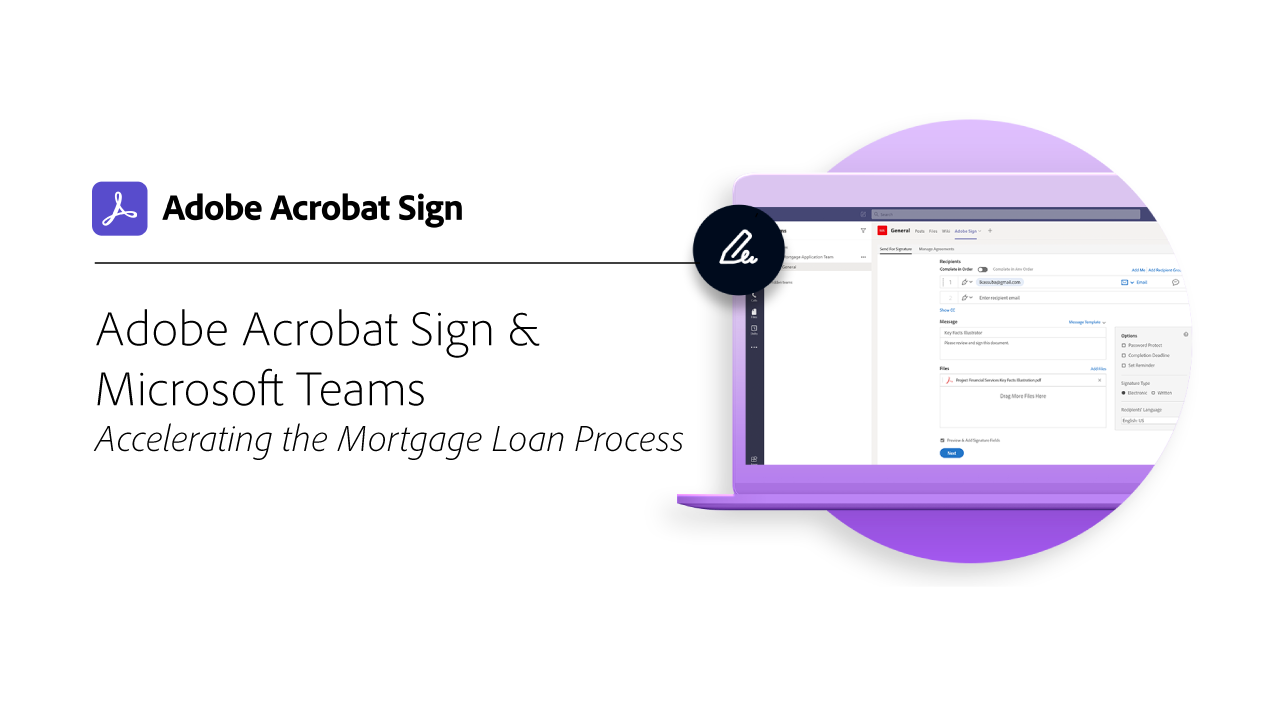
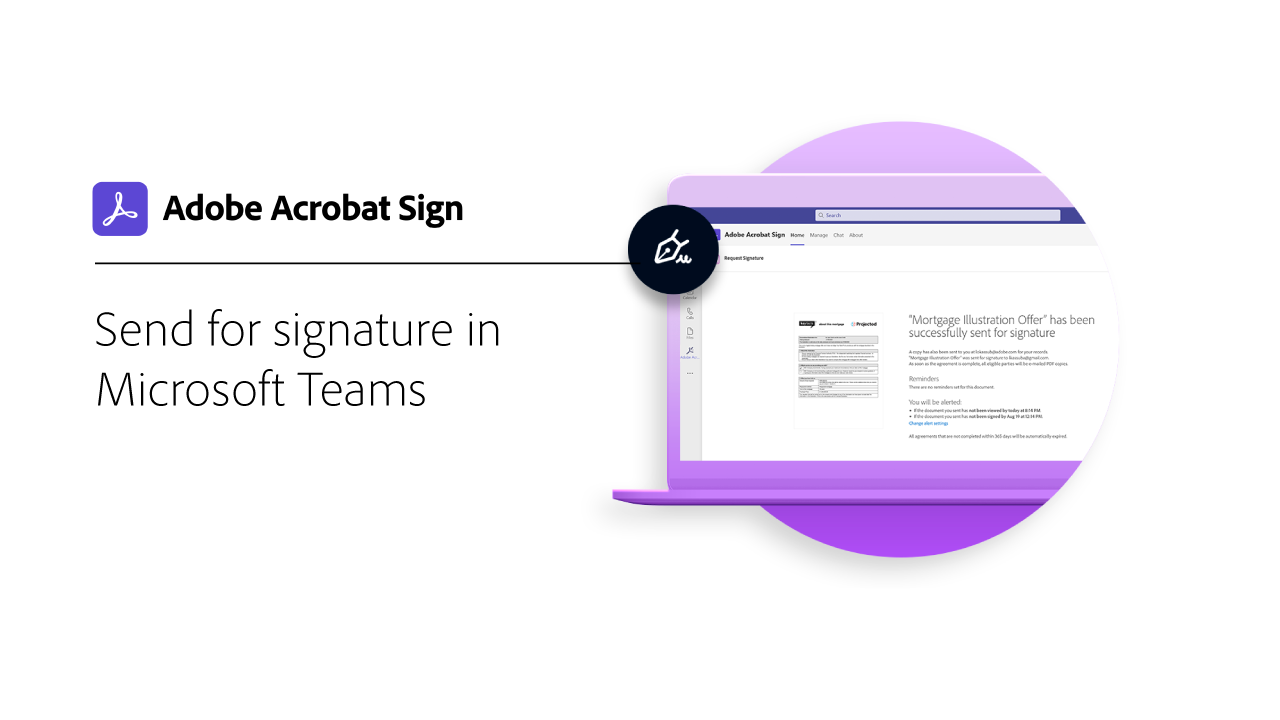
Acrobat Sign Teams tutorial update

diff --git a/help/sign/integrations/adobe-sign-teams-mortgage.md b/help/sign/integrations/adobe-sign-teams-mortgage.md
@@ -1,6 +1,6 @@
 ---
-title: Sending documents for signature in [!DNL Microsoft Teams]
-description: The Acrobat Sign & [!DNL Microsoft Teams] integration enables you to send agreements for signature or check the status of existing agreements, all from within [!DNL Microsoft Teams]
+title: Send for signature in [!DNL Microsoft Teams]
+description: earn how to send agreements for signature, check the status of agreements, and send reminders all from within [!DNL Microsoft Teams]
 role: User
 product: adobe sign
 solution: Acrobat Sign
@@ -9,11 +9,12 @@ topic-revisit: Integrations
 thumbnail: 40125.jpg
 exl-id: dc6b8cc8-6d9d-46a0-add2-dc5ada06fbaf
 ---
-# Sending documents for signature in [!DNL Microsoft Teams]
+# Send for signature in [!DNL Microsoft Teams]
 
-The Acrobat Sign & [!DNL Microsoft Teams] integration enables you to send agreements for signature or check the status of existing agreements, all from within [!DNL Microsoft Teams]. This example walks through a mortgage broker sending out an loan application directly within Teams. This tight integration accelerates the mortgage loan process—even when working with mortgage applicants in a remote work environment.
+Learn how to send agreements for signature, check the status of agreements, and send reminders all from within [!DNL Microsoft Teams].
+This example walks through a mortgage broker sending out an loan application for signature directly within Teams. This tight integration accelerates the mortgage loan process—even when working with mortgage applicants in a remote work environment.
 
->[!VIDEO](https://video.tv.adobe.com/v/40125?hidetitle=true)
+>[!VIDEO](https://video.tv.adobe.com/v/346545?hidetitle=true)
 
 >[!TIP]
 >

diff --git a/help/sign/TOC.md b/help/sign/TOC.md
@@ -81,7 +81,7 @@ breadcrumb-title: Acrobat Sign Tutorials
     + [Send for signature in Outlook](integrations/send-for-signature-with-outlook.md)
     + [Send for signature in SharePoint Online](integrations/send-for-signature-with-sharepoint-online.md)
     + [Tracking in SharePoint Online](integrations/track-an-agreement-with-sharepoint-online.md)
-    + [Sending documents for signature in [!DNL Microsoft Teams]](integrations/adobe-sign-teams-mortgage.md)
+    + [Send for signature in [!DNL Microsoft Teams]](integrations/adobe-sign-teams-mortgage.md)
     + [Document automation with Acrobat Sign for Microsoft Power Platform](integrations/documentautomation.md)
   + Salesforce {#salesforce}
     + [Creating a document template](integrations/create-an-agreement-template.md)

diff --git a/help/sign/integrations/integrations-overview.md b/help/sign/integrations/integrations-overview.md
@@ -68,7 +68,7 @@ You can use Acrobat Sign inside other applications your organization already use
       <img alt="Sending documents for signature in [!DNL Microsoft Teams]" src="../assets/teamsmortgage.png" />
     </a>
     <div>
-    <a href="adobe-sign-teams-mortgage.md"><strong>Sending documents for signature in [!DNL Microsoft Teams]</strong></a>
+    <a href="adobe-sign-teams-mortgage.md"><strong>Send for signature in [!DNL Microsoft Teams]</strong></a>
     </div>
     <em>Send documents for signature directly within [!DNL Microsoft Teams]</em>
     <br>
